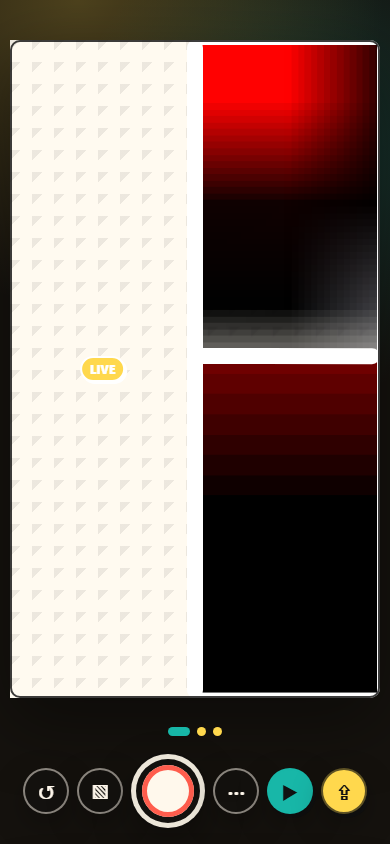
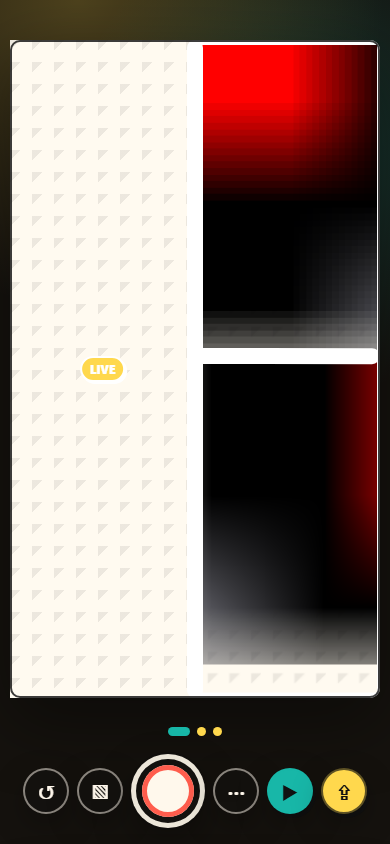
Add pinch rotation and polish editor borders

Changed region(s): [[0.5231, 0.4313, 0.9846, 0.8318]]

diff --git a/src/main.tsx b/src/main.tsx
@@ -34,6 +34,7 @@ type Shot = {
   offsetX: number
   offsetY: number
   scale: number
+  rotation: number
 }
 
 type CapturedPhoto = {
@@ -104,15 +105,15 @@ type TouchPoints = {
 
 type PhotoDragState = {
   panelId: string
-  mode: 'move' | 'pinch'
+  mode: 'move' | 'rotate'
   startX: number
   startY: number
   offsetX: number
   offsetY: number
-  scale: number
+  rotation: number
   frameWidth: number
   frameHeight: number
-  startDistance?: number
+  startAngle?: number
 }
 
 type LineTouchState = {
@@ -138,6 +139,7 @@ function createShot(dataUrl: string, width?: number, height?: number): Shot {
     offsetX: 0,
     offsetY: 0,
     scale: 1,
+    rotation: 0,
   }
 }
 
@@ -146,6 +148,7 @@ function normalizeShot(shot: Shot): Shot {
   return {
     ...shot,
     scale,
+    rotation: normalizeAngle(shot.rotation),
     offsetX: clamp(shot.offsetX, -0.65 * scale, 0.65 * scale),
     offsetY: clamp(shot.offsetY, -0.65 * scale, 0.65 * scale),
   }
@@ -724,7 +727,7 @@ function App() {
   function selectPanel(panelId: string) {
     setActivePanelId(panelId)
     if (shots[panelId]) {
-      setStatus(`Panel ${layout.panels.findIndex((panel) => panel.id === panelId) + 1} photo selected. Drag or pinch to adjust.`)
+      setStatus(`Panel ${layout.panels.findIndex((panel) => panel.id === panelId) + 1} photo selected. Drag to move or twist to rotate.`)
       return
     }
 
@@ -950,13 +953,13 @@ function App() {
       startY: event.clientY,
       offsetX: shot.offsetX,
       offsetY: shot.offsetY,
-      scale: shot.scale,
+      rotation: shot.rotation,
       ...panelPhotoFrameSize(panel, rect),
     })
-    setStatus(`Panel ${layout.panels.findIndex((item) => item.id === panel.id) + 1} photo selected. Drag or pinch to adjust.`)
+    setStatus(`Panel ${layout.panels.findIndex((item) => item.id === panel.id) + 1} photo selected. Drag to move or twist to rotate.`)
   }
 
-  function beginPhotoPinch(event: TouchEvent<HTMLElement>) {
+  function beginPhotoRotation(event: TouchEvent<HTMLElement>) {
     if (event.touches.length < 2) {
       return
     }
@@ -973,14 +976,14 @@ function App() {
     setActivePanelId(firstPanel.id)
     setPhotoDragState({
       panelId: firstPanel.id,
-      mode: 'pinch',
+      mode: 'rotate',
       startX: 0,
       startY: 0,
       offsetX: shot.offsetX,
       offsetY: shot.offsetY,
-      scale: shot.scale,
+      rotation: shot.rotation,
       ...panelPhotoFrameSize(firstPanel, rect),
-      startDistance: touchDistance(event.touches),
+      startAngle: touchAngle(event.touches),
     })
   }
 
@@ -997,16 +1000,16 @@ function App() {
     })
   }
 
-  function movePhotoPinch(touches: TouchPoints) {
-    if (!photoDragState || photoDragState.mode !== 'pinch' || touches.length < 2 || !photoDragState.startDistance) {
+  function movePhotoRotation(touches: TouchPoints) {
+    if (!photoDragState || photoDragState.mode !== 'rotate' || touches.length < 2 || photoDragState.startAngle === undefined) {
       return
     }
 
-    const scale = photoDragState.scale * clamp(touchDistance(touches) / photoDragState.startDistance, 0.35, 3)
-    updateShotTransform(photoDragState.panelId, { scale })
+    const rotation = photoDragState.rotation + angleDelta(photoDragState.startAngle, touchAngle(touches))
+    updateShotTransform(photoDragState.panelId, { rotation })
   }
 
-  function updateShotTransform(panelId: string, update: Partial<Pick<Shot, 'offsetX' | 'offsetY' | 'scale'>>) {
+  function updateShotTransform(panelId: string, update: Partial<Pick<Shot, 'offsetX' | 'offsetY' | 'scale' | 'rotation'>>) {
     setShots((current) => {
       const shot = current[panelId]
       if (!shot) {
@@ -1158,8 +1161,8 @@ function App() {
       onPointerUp={() => finishGestures()}
       onPointerCancel={() => finishGestures()}
       onTouchMove={(event) => {
-        if (photoDragState?.mode === 'pinch') {
-          movePhotoPinch(event.touches)
+        if (photoDragState?.mode === 'rotate') {
+          movePhotoRotation(event.touches)
         } else if (event.touches[0]) {
           movePhoto(event.touches[0].clientX, event.touches[0].clientY)
         }
@@ -1229,7 +1232,7 @@ function App() {
           }}
           onTouchStart={(event) => {
             if (event.touches.length > 1) {
-              beginPhotoPinch(event)
+              beginPhotoRotation(event)
             }
           }}
           style={
@@ -1260,6 +1263,7 @@ function App() {
                   data-shot-scale={shots[panel.id].scale.toFixed(2)}
                   data-shot-x={shots[panel.id].offsetX.toFixed(2)}
                   data-shot-y={shots[panel.id].offsetY.toFixed(2)}
+                  data-shot-rotation={shots[panel.id].rotation.toFixed(2)}
                 />
               )}
               {panel.id === activePanelId && stream && !shots[panel.id] && (
@@ -2514,6 +2518,8 @@ function shotImageStyle(panel: Panel, shot: Shot, fit: PanelFit, pageFormat: Pag
     width: `${size.width * shot.scale * 100}%`,
     height: `${size.height * shot.scale * 100}%`,
     objectFit: 'fill',
+    transform: `rotate(${shot.rotation}deg)`,
+    transformOrigin: 'center',
   } as React.CSSProperties
 }
 
@@ -2599,7 +2605,13 @@ function drawImageFit(
   const drawH = size.height * shot.scale
   const offsetX = shot.offsetX * w
   const offsetY = shot.offsetY * h
-  context.drawImage(image, x + (w - drawW) / 2 + offsetX, y + (h - drawH) / 2 + offsetY, drawW, drawH)
+  const centerX = x + w / 2 + offsetX
+  const centerY = y + h / 2 + offsetY
+  context.save()
+  context.translate(centerX, centerY)
+  context.rotate((shot.rotation * Math.PI) / 180)
+  context.drawImage(image, -drawW / 2, -drawH / 2, drawW, drawH)
+  context.restore()
 }
 
 function imageFitSize(imageRatio: number, w: number, h: number, fit: PanelFit, yScale = 1) {
@@ -3168,6 +3180,21 @@ function angleDelta(start: number, current: number) {
     delta += 360
   }
   return delta
+}
+
+function normalizeAngle(angle: number) {
+  if (!Number.isFinite(angle)) {
+    return 0
+  }
+
+  let normalized = angle % 360
+  if (normalized > 180) {
+    normalized -= 360
+  }
+  if (normalized <= -180) {
+    normalized += 360
+  }
+  return normalized
 }
 
 function pointInPanel(panel: Panel, x: number, y: number) {

diff --git a/src/style.css b/src/style.css
@@ -7,6 +7,8 @@
   --teal: #18b7a8;
   --yellow: #ffd84d;
   --muted: rgba(17, 17, 17, 0.58);
+  --ui-border: 2px;
+  --ui-border-strong: 3px;
   color: var(--ink);
   background: #111;
   font-family:
@@ -96,7 +98,7 @@ select:focus-visible {
 .start-screen .start-button {
   min-width: 168px;
   min-height: 62px;
-  border: 3px solid #111;
+  border: var(--ui-border-strong) solid #111;
   border-radius: 999px;
   color: #111;
   background: var(--yellow);
@@ -131,7 +133,7 @@ select:focus-visible {
   place-items: center;
   gap: 2px;
   padding: 7px 3px;
-  border: 2px solid rgba(255, 248, 236, 0.32);
+  border: var(--ui-border) solid rgba(255, 248, 236, 0.32);
   border-radius: 14px;
   color: #fff8ec;
   background: rgba(17, 17, 17, 0.28);
@@ -171,7 +173,7 @@ select:focus-visible {
   width: 100%;
   min-height: 46px;
   margin: 0 0 14px;
-  border: 3px solid #111;
+  border: var(--ui-border-strong) solid #111;
   border-radius: 999px;
   color: #111;
   background: var(--yellow);
@@ -303,7 +305,7 @@ select:focus-visible {
   height: 100%;
   display: block;
   object-fit: fill;
-  will-change: left, top, width, height;
+  will-change: left, top, width, height, transform;
 }
 
 .live-divider-gap {
@@ -427,7 +429,7 @@ select:focus-visible {
 .round-action {
   width: 54px;
   height: 54px;
-  border: 2px solid rgba(255, 248, 236, 0.5);
+  border: var(--ui-border) solid rgba(255, 248, 236, 0.5);
   border-radius: 999px;
   color: #fff8ec;
   background: rgba(17, 17, 17, 0.34);
@@ -510,7 +512,7 @@ select:focus-visible {
   z-index: 82;
   height: 42px;
   overflow: hidden;
-  border: 2px solid rgba(17, 17, 17, 0.72);
+  border: var(--ui-border) solid rgba(17, 17, 17, 0.72);
   border-radius: 999px;
   color: #111;
   background: rgba(255, 248, 236, 0.94);
@@ -549,7 +551,7 @@ select:focus-visible {
   gap: 10px;
   align-items: center;
   padding: 10px;
-  border: 2px solid rgba(17, 17, 17, 0.72);
+  border: var(--ui-border) solid rgba(17, 17, 17, 0.72);
   border-radius: 18px;
   color: #111;
   background: rgba(255, 248, 236, 0.96);
@@ -666,7 +668,7 @@ select:focus-visible {
   grid-template-columns: repeat(3, 1fr);
   gap: 8px;
   padding: 4px;
-  border: 1px solid rgba(17, 17, 17, 0.12);
+  border: var(--ui-border) solid rgba(17, 17, 17, 0.12);
   border-radius: 999px;
   background: rgba(255, 255, 255, 0.62);
 }
@@ -702,7 +704,7 @@ select:focus-visible {
   display: grid;
   gap: 10px;
   padding: 12px;
-  border: 2px solid rgba(17, 17, 17, 0.14);
+  border: var(--ui-border) solid rgba(17, 17, 17, 0.14);
   border-radius: 16px;
   background: rgba(24, 183, 168, 0.12);
 }
@@ -742,7 +744,7 @@ select:focus-visible {
   gap: 10px;
   align-items: center;
   padding: 10px;
-  border: 2px solid rgba(17, 17, 17, 0.15);
+  border: var(--ui-border) solid rgba(17, 17, 17, 0.15);
   border-radius: 18px;
   background: rgba(255, 255, 255, 0.7);
   text-align: left;
@@ -777,7 +779,7 @@ select:focus-visible {
   height: 32px;
   display: grid;
   place-items: center;
-  border: 2px solid #fff8ec;
+  border: var(--ui-border) solid #fff8ec;
   border-radius: 999px;
   color: #fff8ec;
   background: #b3261e;
@@ -791,13 +793,13 @@ select:focus-visible {
   position: relative;
   width: 46px;
   height: 66px;
-  border: 2px solid var(--ink);
+  border: var(--ui-border) solid var(--ink);
   background: var(--paper);
 }
 
 .layout-mini i {
   position: absolute;
-  border: 1.5px solid var(--ink);
+  border: var(--ui-border) solid var(--ink);
   background: #fff;
 }
 
@@ -879,7 +881,7 @@ select:focus-visible {
 .creator-topbar button,
 .creator-actions button {
   min-height: 48px;
-  border: 0;
+  border: var(--ui-border) solid rgba(17, 17, 17, 0.16);
   border-radius: 16px;
   background: rgba(17, 17, 17, 0.08);
   color: var(--ink);
@@ -889,6 +891,7 @@ select:focus-visible {
 
 .creator-topbar .primary,
 .creator-actions .primary {
+  border-color: #111;
   background: var(--accent);
   color: #fff;
 }
@@ -1053,7 +1056,7 @@ select:focus-visible {
   width: 100%;
   min-height: 48px;
   padding: 0 12px;
-  border: 2px solid rgba(17, 17, 17, 0.16);
+  border: var(--ui-border) solid rgba(17, 17, 17, 0.16);
   border-radius: 16px;
   background: rgba(255, 255, 255, 0.82);
   color: var(--ink);
@@ -1081,7 +1084,7 @@ select:focus-visible {
   display: inline-flex;
   align-items: center;
   justify-content: center;
-  border: 0;
+  border: var(--ui-border) solid #111;
   border-radius: 17px;
   background: var(--accent);
   color: #fff;
@@ -1101,6 +1104,7 @@ input:disabled {
 }
 
 .subtle-danger {
+  border-color: rgba(179, 38, 30, 0.36);
   background: rgba(255, 93, 77, 0.14);
   color: #b3261e;
 }
@@ -1206,7 +1210,7 @@ input:disabled {
 .start-screen .start-button {
   width: 100%;
   min-height: 56px;
-  border: 3px solid #111;
+  border: var(--ui-border-strong) solid #111;
   border-radius: 999px;
   font-size: 19px;
   font-weight: 1000;
@@ -1279,7 +1283,7 @@ input:disabled {
 
 .installer-note {
   padding: 13px 14px;
-  border: 2px solid rgba(17, 17, 17, 0.14);
+  border: var(--ui-border) solid rgba(17, 17, 17, 0.14);
   border-radius: 10px;
   background: rgba(24, 183, 168, 0.1);
 }
@@ -1290,7 +1294,7 @@ input:disabled {
   display: flex;
   align-items: center;
   justify-content: center;
-  border: 3px solid #111;
+  border: var(--ui-border-strong) solid #111;
   border-radius: 999px;
   font-size: 17px;
   font-weight: 1000;

diff --git a/README.md b/README.md
@@ -27,7 +27,7 @@ Instacomic turns a phone camera into a live comic strip editor. Pick a panel, sh
 - A Start button enters the editor and requests fullscreen when the browser allows it.
 - Capture advances forward through the layout, then freezes the final photo instead of covering it with the live preview.
 - Upload an existing image into the active panel when the camera is not the right source.
-- Filled panels support direct photo repositioning: drag to pan and pinch to resize.
+- Filled panels support direct photo repositioning: drag to pan and twist with two fingers to rotate.
 - Custom layouts open in a full-screen maker with divider handles, endpoint snapping, and thickness controls.
 - Style controls cover paper, ink, gutters, borders, corners, captions, and image fit.
 - Story video export renders a sliding panel reveal with duration and speed controls, downloading MP4 output.
@@ -51,7 +51,7 @@ npm run smoke:camera
 npm run smoke:video
 ```
 
-The smoke checks exercise the mobile editor flow, centered start aspect choices, uploaded photo positioning, full-screen snapping custom layouts with thickness controls, custom layout deletion, share fallback, manifest loading, fake-camera capture through the final panel, story video configuration, and story video render progress.
+The smoke checks exercise the mobile editor flow, centered start aspect choices, uploaded photo positioning and two-finger rotation without scaling, uniform editor control borders, full-screen snapping custom layouts with thickness controls, custom layout deletion, share fallback, manifest loading, fake-camera capture through the final panel, story video configuration, and story video render progress.
 
 ## Deploy
 
